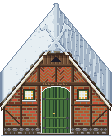
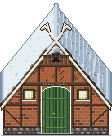
Hall house under snow: the bargeboards and horse heads stay clear
The boards cross over the hip and the thatch behind it, so the roof pixels
they cover were still counted as roof and snowed over, and the horse heads
vanished in winter. They are taken out of the snow's pixels now: under snow
the white boards and the heads stand on the snowed roof, the cut reed shows
along the rakes and the hip keeps its rolled foot.

diff --git a/tools/art/buildings.py b/tools/art/buildings.py
@@ -749,12 +749,14 @@ def gable_roof(picture, snowy, rng, left, right, eaves_y, foot_y, hip_half, dept
             line = round(eaves_y - step * slope)
             for row, colour in enumerate(BOARD):
                 picture[line + 1 + row][x] = colour
+                snowy.discard((x, line + 1 + row))
             below = line + 1 + len(BOARD)
             if picture[below][x] not in BOARD:
                 picture[below][x] = "soil_dark"
+                snowy.discard((x, below))
             if abs(x - centre) >= hip_half:
                 face_top[x] = max(face_top[x], below)
-        horse_head(picture, start - side * reach, round(eaves_y - reach * slope), -side)
+        horse_head(picture, snowy, start - side * reach, round(eaves_y - reach * slope), -side)
     return face_top
 
 
@@ -775,9 +777,10 @@ HORSE_HEAD = (
 )
 
 
-def horse_head(picture, x, y, facing):
+def horse_head(picture, snowy, x, y, facing):
     """A horse head carved on the end of a bargeboard whose top edge ends at (x, y), looking
-    right with `facing` 1 and left with -1, outlined in dark oak so it shows against the thatch."""
+    right with `facing` 1 and left with -1, outlined in dark oak so it shows against the thatch
+    and kept clear of snow."""
     colours = {"o": BOARD[0], "#": BOARD[1], "x": BOARD[3], "e": "soil_dark"}
     head = {}
     for row, line in enumerate(HORSE_HEAD):
@@ -788,8 +791,10 @@ def horse_head(picture, x, y, facing):
         for dx, dy in ((1, 0), (-1, 0), (0, 1), (0, -1)):
             if (hx + dx, hy + dy) not in head and picture[hy + dy][hx + dx] not in BOARD:
                 picture[hy + dy][hx + dx] = "soil_dark"
+                snowy.discard((hx + dx, hy + dy))
     for (hx, hy), colour in head.items():
         picture[hy][hx] = colour
+        snowy.discard((hx, hy))
 
 
 def herringbone(picture, rng, pixels, bricks, mortar):
